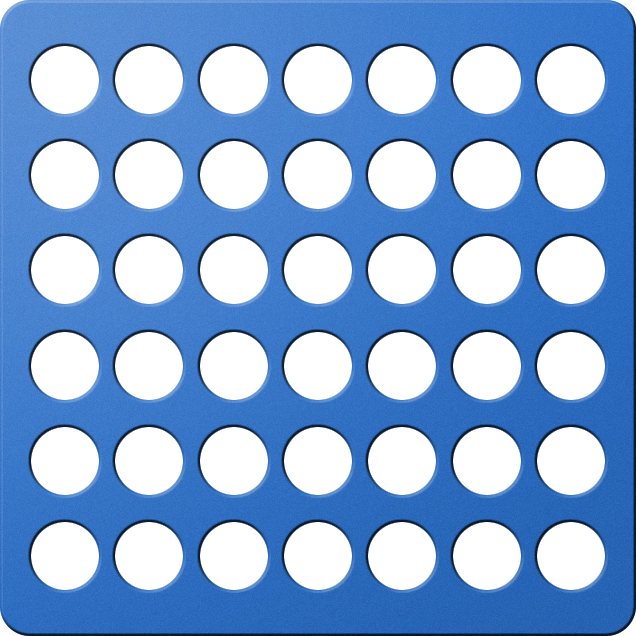
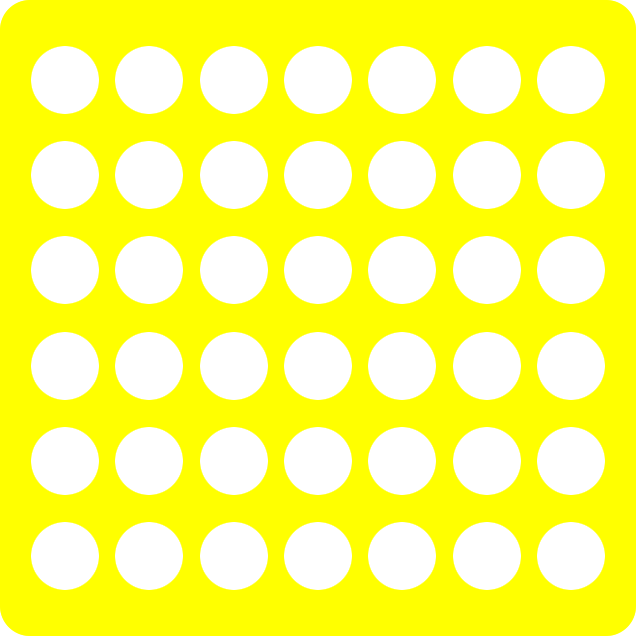
update des graphiques

diff --git a/main.cpp b/main.cpp
@@ -18,6 +18,8 @@ int main() {
 	Text title;
 	Font font;
 
+	sf::Texture _textureBackground;
+
 	const Vector2f buttonSize(300, 75);
 
 	Button button1("Play", buttonSize, Vector2f(WINDOWWIDTH / 2, 300), Color::Black);
@@ -34,7 +36,12 @@ int main() {
 	window.setFramerateLimit(60);
 
 	background.setSize(Vector2f(WINDOWWIDTH, WINDOWHEIGHT));
-	background.setFillColor(BACKGROUNDCOLOR);
+
+	if (!_textureBackground.loadFromFile("ressources/Background.png")) {
+		exit(1); // Si incapable de charger, on quitte avec un code d'erreur
+	}
+
+	background.setTexture(&_textureBackground); // Applique la texture reellement souhaitee
 
 	if (!font.loadFromFile("angelina.ttf"))
 		exit(1);

diff --git a/constants.h b/constants.h
@@ -2,10 +2,10 @@
 
 #include <SFML/Graphics.hpp>
 
-const int WINDOWWIDTH = 1000;
-const int WINDOWHEIGHT = 800;
+const int WINDOWWIDTH = 1024;
+const int WINDOWHEIGHT = 876;
 const int GRIDWIDTH = 500;
 const int GRIDHEIGHT = 500;
 const int TOKENSIZE = 58;
 
-const sf::Color BACKGROUNDCOLOR(35, 75, 20, 255);
+const sf::Color BACKGROUNDCOLOR(6, 7, 20, 255);

diff --git a/Game.cpp b/Game.cpp
@@ -51,7 +51,7 @@ int Game::play(RenderWindow& window, SoundBuffer buffer)
 	
 	background.setSize(Vector2f(WINDOWWIDTH, WINDOWHEIGHT));
 
-	if (!_textureBackground.loadFromFile("ressources/Background.jpg")) {
+	if (!_textureBackground.loadFromFile("ressources/Background.png")) {
 		exit(1); // Si incapable de charger, on quitte avec un code d'erreur
 	}
 